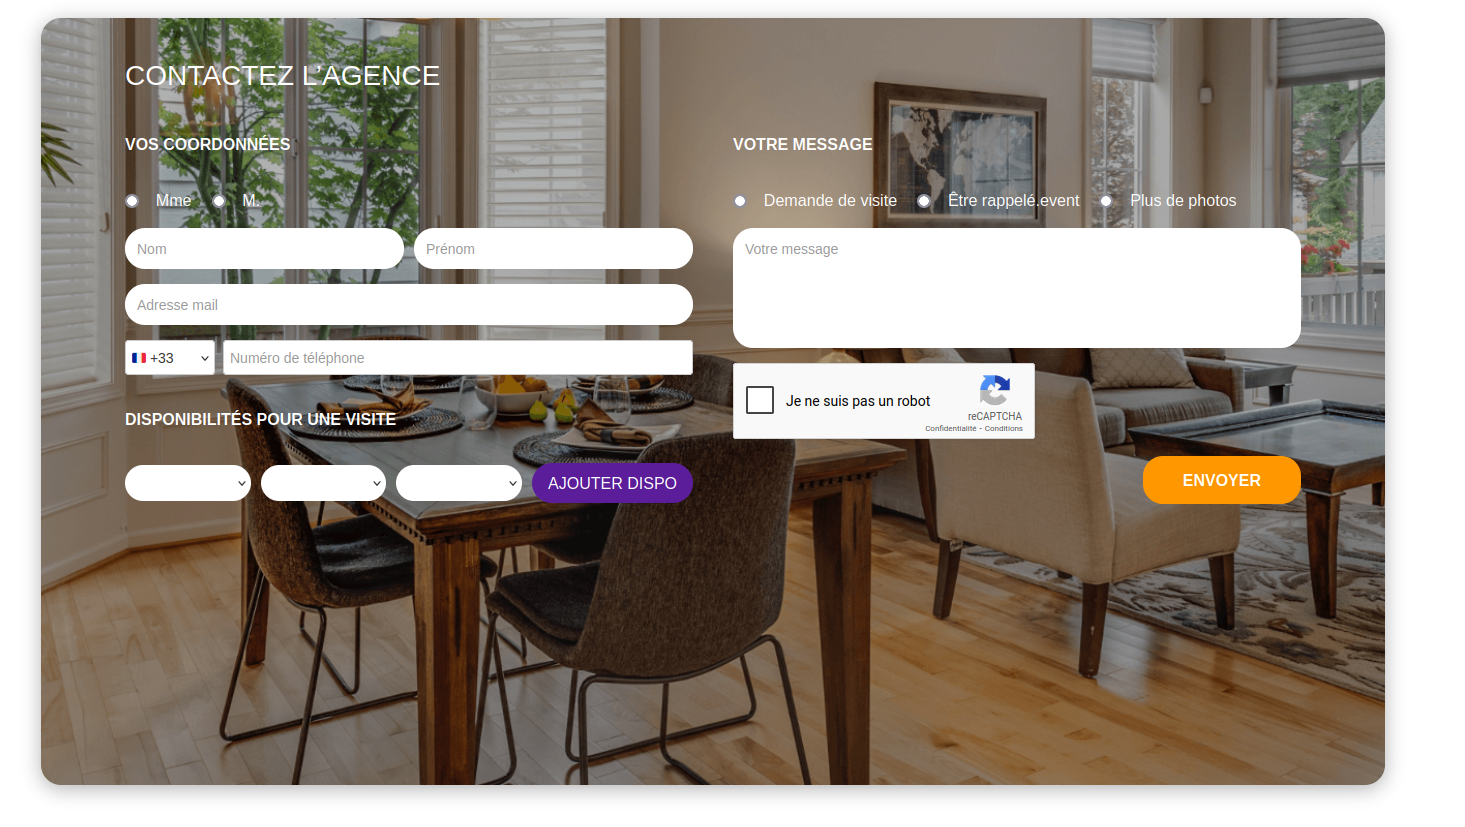
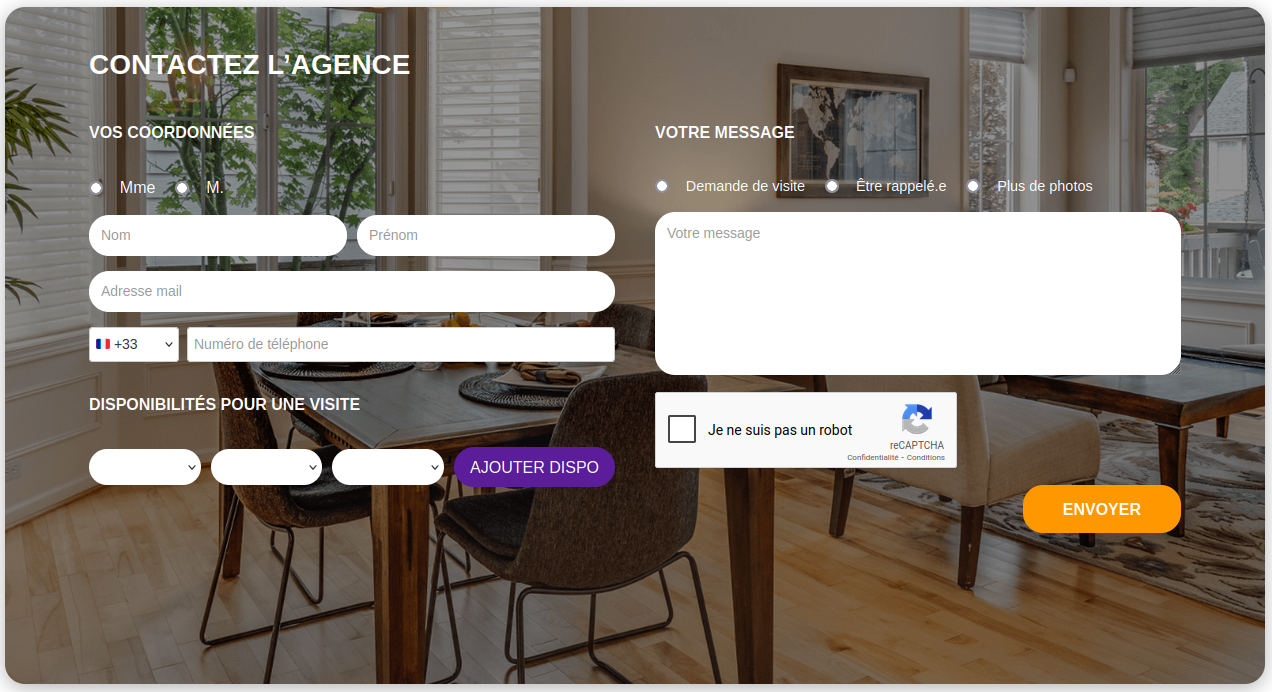
amélioration responsive

diff --git a/client/app/form.css b/client/app/form.css
@@ -1,4 +1,5 @@
-body, html {
+body,
+html {
   height: 100%;
   margin: 0;
 }
@@ -16,22 +17,23 @@ body, html {
   color: white;
   font-family: "Arial", sans-serif;
   box-shadow: 0 4px 20px rgba(0, 0, 0, 0.3);
-  width: 95vw;
-  min-height: 85vh;
+  max-width: 75vw;
+  min-height: 75vh;
   display: block;
 }
 
 .contact-form {
   border-radius: 20px;
-  padding: 4vh 5vw;
-  background: rgba(0, 0, 0, 0.3);
+  background: rgba(0, 0, 0, 0.4);
   width: 100%;
   height: 100%;
+  padding: 1vh 3vw;
 }
 
 .contact-form h2 {
-  font-size: 24px;
+  font-size: 1.5rem;
   margin-bottom: 20px;
+  font-weight: bold;
 }
 
 .form-columns {
@@ -61,25 +63,30 @@ textarea {
   padding: 10px 12px;
   border-radius: 20px;
   border: none;
-  font-size: 14px;
+  font-size: 0.875rem;
   color: #333;
   background-color: white;
 }
 
 textarea {
-  height: 120px;
-  resize: none;
+  height: 18vh;
+}
+
+.captcha {
+  display: flex;
+  justify-content: center;
 }
 
 .radio-group {
   display: flex;
   flex-wrap: wrap;
   gap: 20px;
-  font-size: 14px;
+  font-size: 0.875rem;
 }
 
 .availability-group {
   display: flex;
+  flex-direction: column;
   align-items: center;
   gap: 10px;
   flex-wrap: nowrap;
@@ -108,7 +115,7 @@ textarea {
   background: rgba(255, 255, 255, 0.3);
   border-radius: 8px;
   padding: 6px 10px;
-  font-size: 14px;
+  font-size: 0.875rem;
   color: #fff;
   white-space: nowrap;
   width: auto;
@@ -122,7 +129,7 @@ textarea {
   font-weight: bold;
   cursor: pointer;
   margin-left: 10px;
-  font-size: 16px;
+  font-size: 1rem;
   line-height: 1;
 }
 
@@ -138,7 +145,8 @@ textarea {
   font-weight: bold;
   padding: 12px 40px;
   cursor: pointer;
-  align-self: flex-end;
+  align-self: center;
+  font-size: 1rem;
 }
 
 .phone-input {
@@ -152,6 +160,7 @@ textarea {
   padding: 6px;
   border: 1px solid #ccc;
   border-radius: 4px;
+  font-size: 0.875rem;
 }
 
 .phone-input input {
@@ -159,27 +168,33 @@ textarea {
   padding: 6px;
   border: 1px solid #ccc;
   border-radius: 4px;
+  font-size: 0.875rem;
 }
 
 .success {
   color: #3aff6b;
   margin-top: 10px;
+  font-size: 0.875rem;
 }
 
 .error {
   color: #ff3b3b;
   margin-top: 10px;
+  font-size: 0.875rem; 
 }
 
-input, textarea, select {
+input,
+textarea,
+select {
   background-color: white;
 }
 
-.labelTopic, .labelGender {
+.labelTopic,
+.labelGender {
   display: flex;
   align-items: center;
   white-space: nowrap;
-  font-size: 115%;
+  font-size: 1rem;
   gap: 1vw;
 }
 
@@ -187,45 +202,7 @@ h3 {
   font-weight: bold;
   padding-top: 3%;
   padding-bottom: 3%;
-}
-
-/* --- Tablette --- */
-@media (max-width: 1023px) {
-  .form-container {
-    width: 90vw;
-    height: auto;
-    min-height: 80vh;
-  }
-
-  .contact-form {
-    padding: 5vh 6vw;
-  }
-
-  .form-columns {
-    flex-direction: row;
-    flex-wrap: wrap;
-    gap: 20px;
-  }
-
-  .left-column,
-  .right-column {
-    flex: 1 1 100%;
-  }
-
-  .availability-group {
-    flex-wrap: wrap;
-    justify-content: flex-start;
-  }
-
-  .availability-item {
-    width: auto;
-    min-width: 180px;
-  }
-
-  .submit-btn {
-    align-self: center;
-    width: fit-content;
-  }
+  font-size: 1rem;
 }
 
 /* --- Desktop --- */
@@ -236,7 +213,11 @@ h3 {
   }
 
   .contact-form h2 {
-    font-size: 28px;
+    font-size: 1.75rem;
+  }
+
+  .contact-form {
+    padding: 4vh 5vw;
   }
 
   .form-columns {
@@ -251,11 +232,25 @@ h3 {
   }
 
   .availability-group {
+    flex-direction: row;
     justify-content: flex-start;
     gap: 10px;
   }
 
   .availability-item {
     width: 20vw;
+  }
+
+  .labelTopic {
+    font-size: 0.9rem;
+  }
+
+  .submit-btn {
+    align-self: flex-end;
+  }
+
+  .captcha {
+    justify-content: initial;
+    margin: initial;
   }
 }

diff --git a/client/app/formPage.tsx b/client/app/formPage.tsx
@@ -255,7 +255,7 @@ export default function FormPage() {
                 </label>
                 <label className="labelTopic">
                   <input type="radio" value="CALLBACK" checked={topic === "CALLBACK"} onChange={(event) => setTopic(event.target.value as "CALLBACK")} />
-                  Être rappelé.event
+                  Être rappelé.e
                 </label>
                 <label className="labelTopic">
                   <input type="radio" value="PICTURES" checked={topic === "PICTURES"} onChange={(event) => setTopic(event.target.value as "PICTURES")} />
@@ -263,12 +263,16 @@ export default function FormPage() {
                 </label>
               </div>
 
-              <textarea placeholder="Votre message" value={message} onChange={(event) => setMessage(event.target.value)} required></textarea>
+              <div className="textareaContainer">
+                <textarea placeholder="Votre message" value={message} onChange={(event) => setMessage(event.target.value)} required></textarea>
+              </div>
 
-              <ReCAPTCHA
-                sitekey={process.env.NEXT_PUBLIC_RECAPTCHA_SITE_KEY as string}
-                onChange={(token) => setCaptchaToken(token)}
-              />
+              <div className="captcha">
+                <ReCAPTCHA
+                  sitekey={process.env.NEXT_PUBLIC_RECAPTCHA_SITE_KEY as string}
+                  onChange={(token) => setCaptchaToken(token)}
+                />
+              </div>
 
               <button type="submit" className="submit-btn">
                 {"ENVOYER"}
